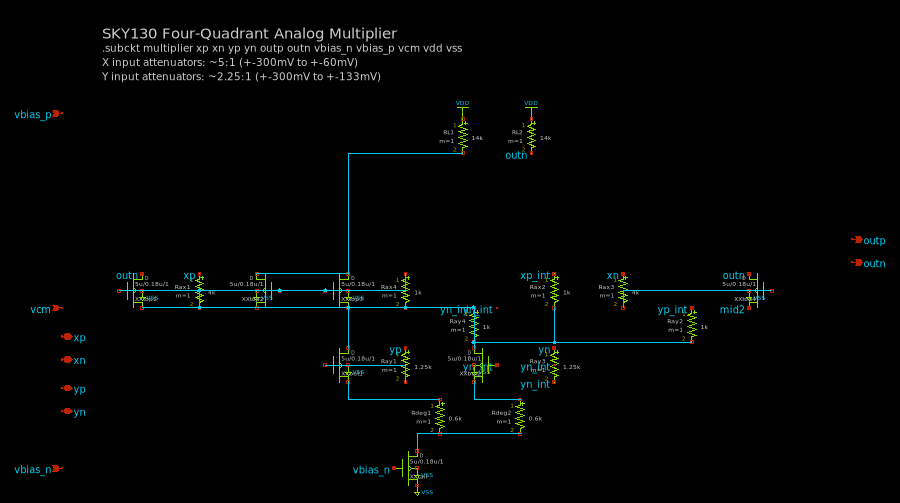
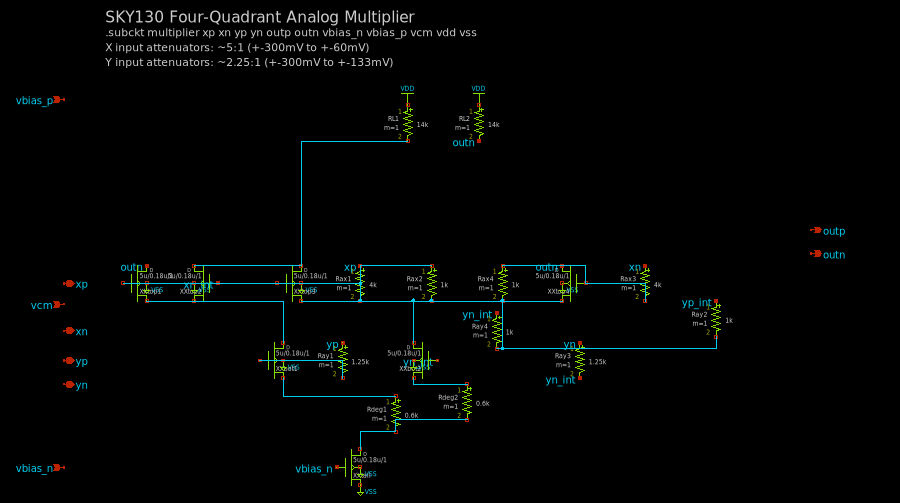
Inline passives placed at midpoint between their two pin connections
Instead of using the centroid of ALL neighbors, inline passives now
use the midpoint between their pin1 and pin2 connection centroids.
This gives better positioning for resistors and caps between two
signal nodes.

All 0 crossings.

diff --git a/src/placer.py b/src/placer.py
@@ -785,16 +785,29 @@ def place_circuit(circuit: Circuit) -> PlacedCircuit:
             max_x = max((p.x for p in result.placements.values()), default=cur_x)
             result.placements[name] = Placement(x=_snap(max_x + H_SPACING), y=_snap(PMOS_Y))
 
-    # Place inline passives between their connected components
+    # Place inline passives between their two pin connections
     for name in inline_passives:
-        pos = _find_centroid_of_neighbors(circuit, name, result)
-        if pos:
-            cx, cy = pos
-            px = _snap(cx)
-            py = _snap(cy)
-            if _is_occupied(result, px, py, 100):
-                px = _snap(cx + 130)
-            result.placements[name] = Placement(x=px, y=py)
+        comp = circuit.components[name]
+        pos1 = _find_pin_centroid(circuit, name, "pin1", result)
+        pos2 = _find_pin_centroid(circuit, name, "pin2", result)
+        if pos1 and pos2:
+            # Place at midpoint between the two pin connections
+            cx = (pos1[0] + pos2[0]) / 2
+            cy = (pos1[1] + pos2[1]) / 2
+        elif pos1 or pos2:
+            pos = pos1 or pos2
+            cx, cy = pos[0] + 100, pos[1]
+        else:
+            pos = _find_centroid_of_neighbors(circuit, name, result)
+            if pos:
+                cx, cy = pos
+            else:
+                continue
+        px = _snap(cx)
+        py = _snap(cy)
+        if _is_occupied(result, px, py, 100):
+            px = _snap(cx + 130)
+        result.placements[name] = Placement(x=px, y=py)
 
     # Place input passives in a compact group
     if input_passives:
